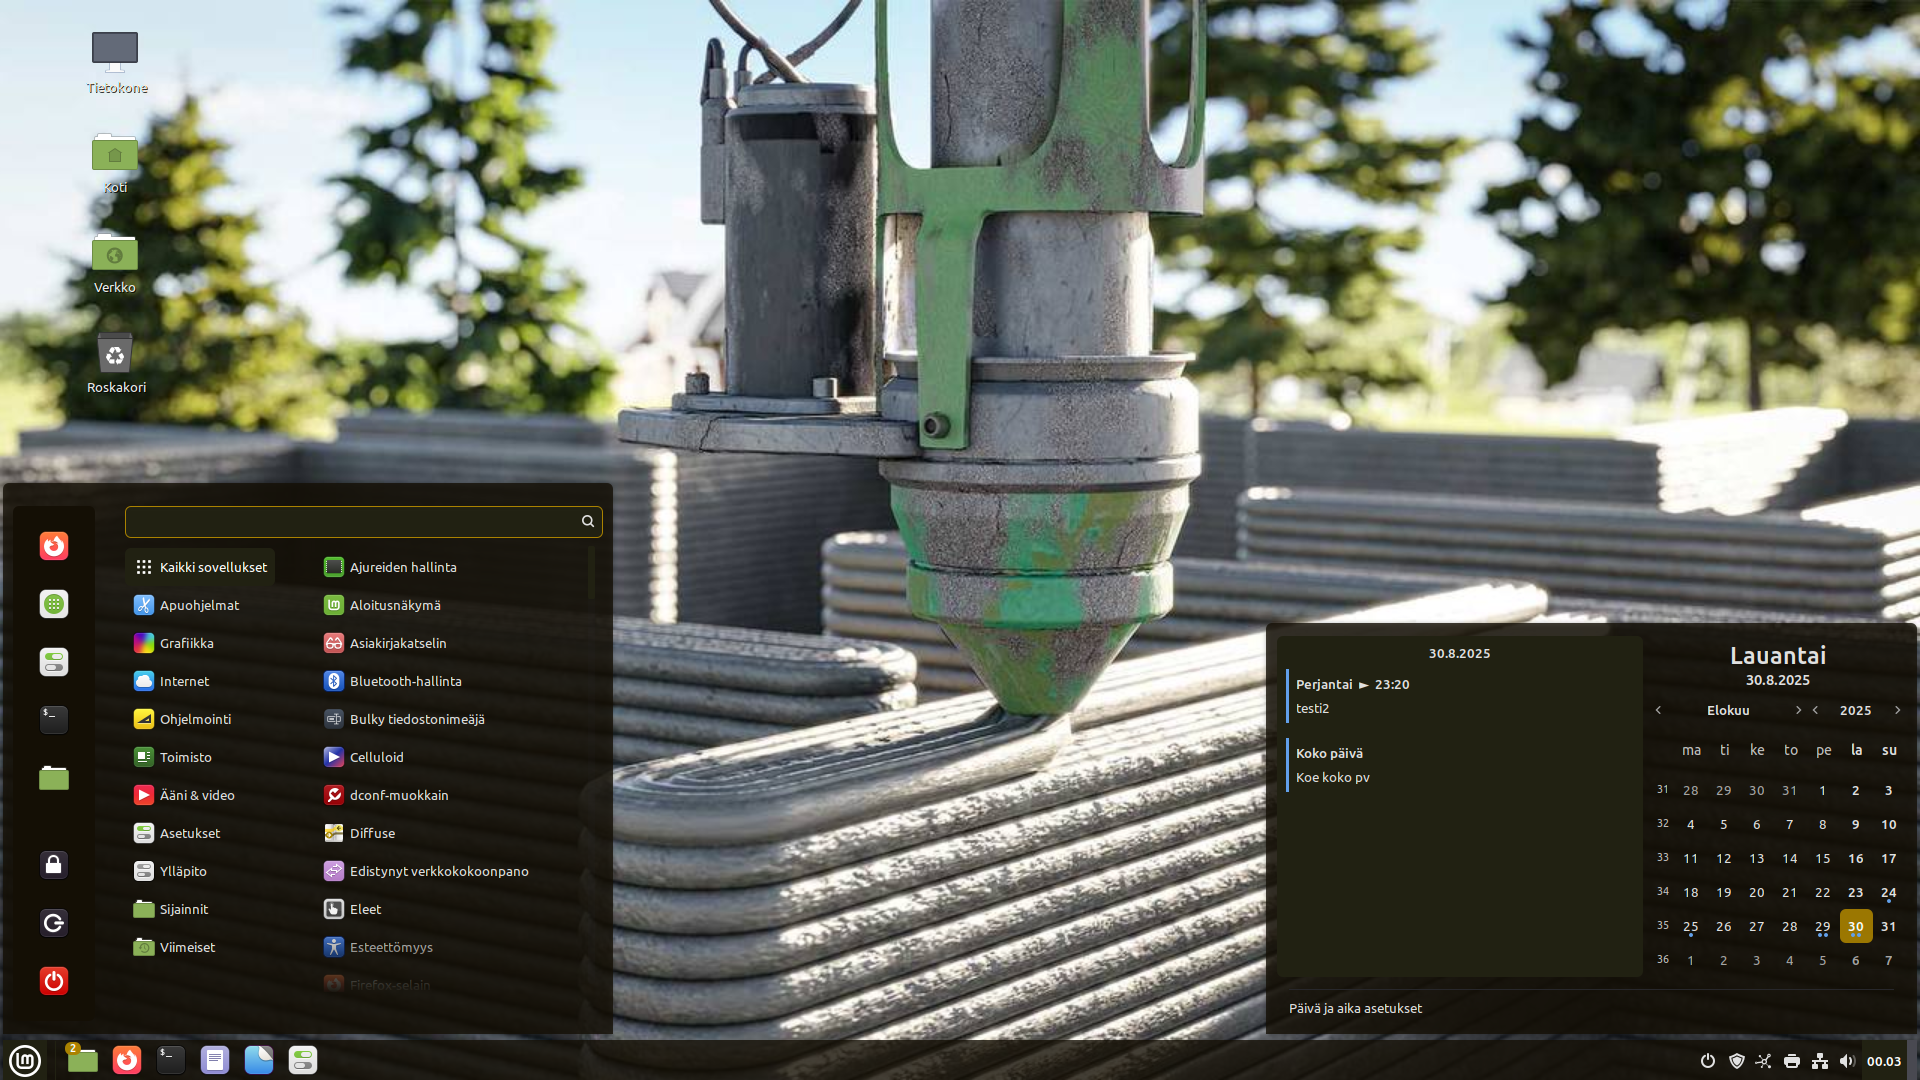
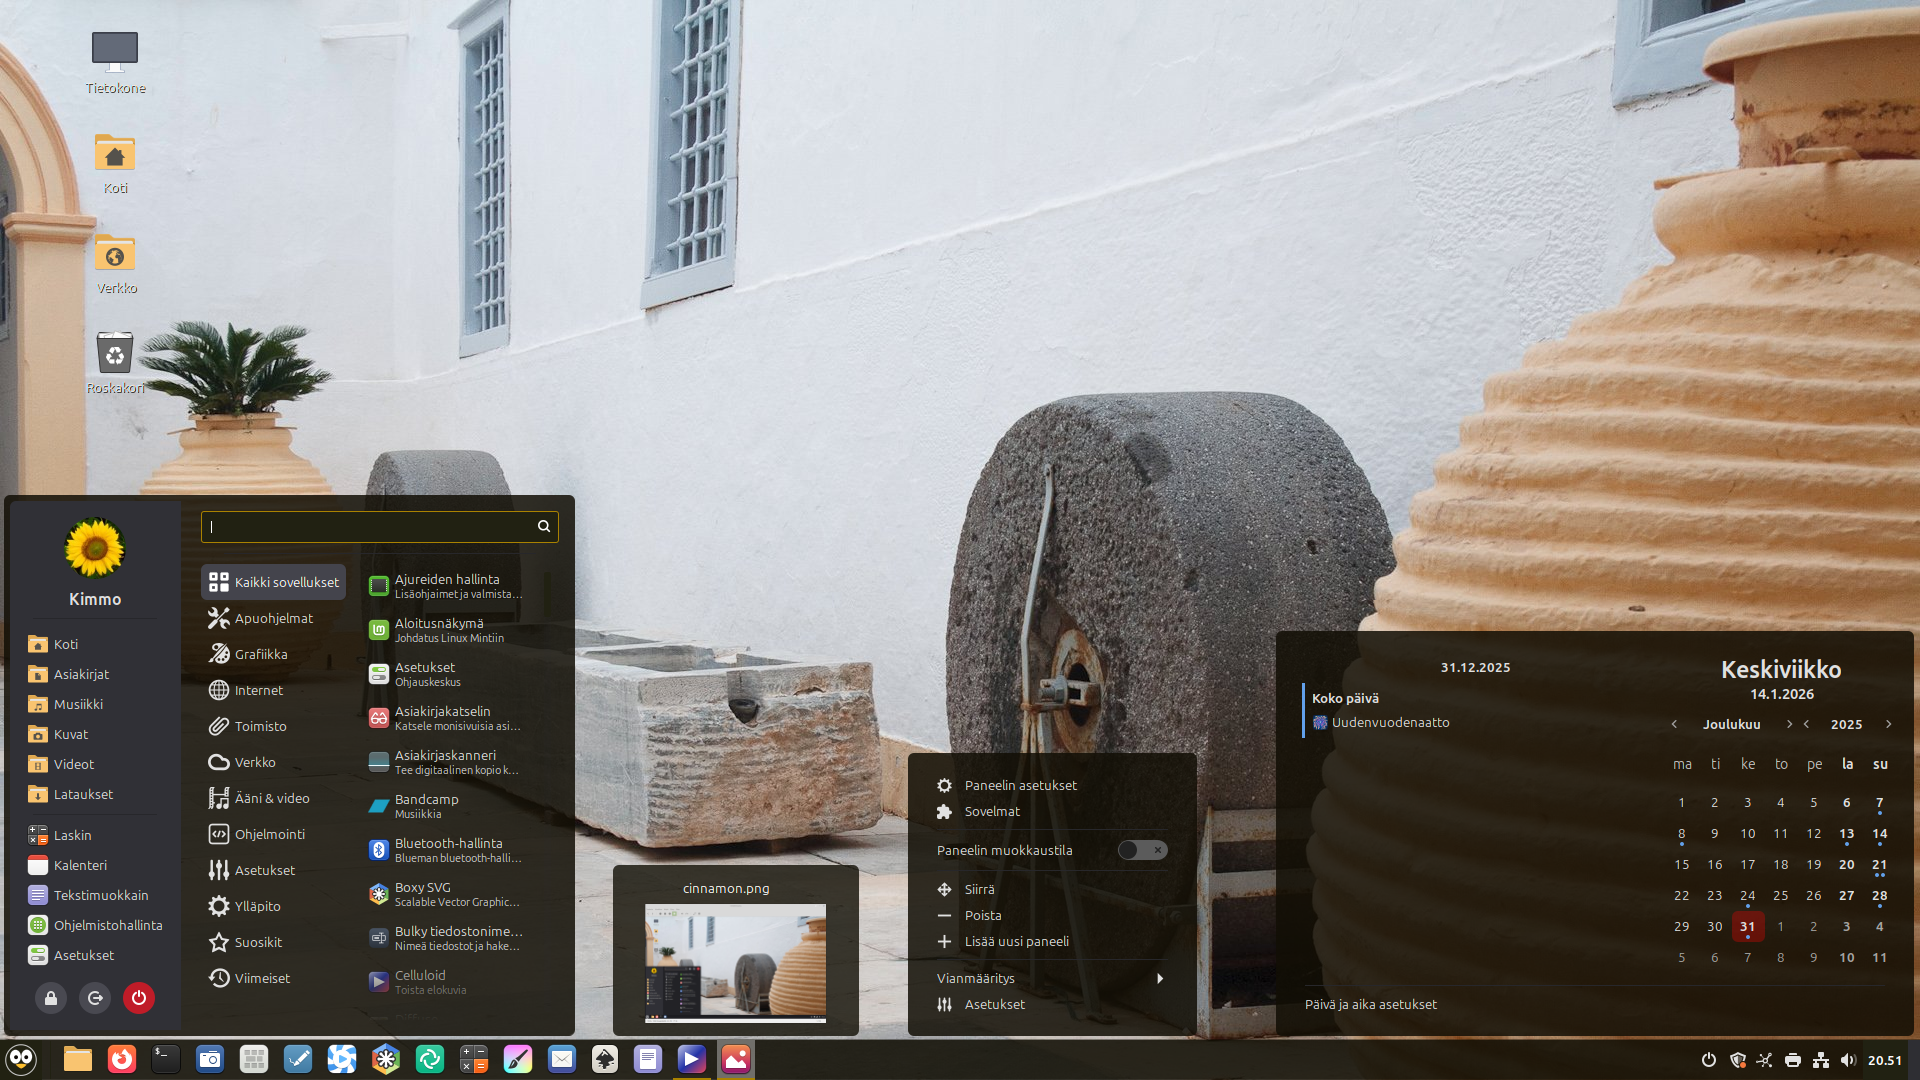
Aune: Version 1.3 (#895)

diff --git a/Aune/files/Aune/cinnamon/cinnamon.css b/Aune/files/Aune/cinnamon/cinnamon.css
@@ -52,7 +52,7 @@ stage {
   border: 1px solid #212112;
   box-shadow: inset 0 2px 4px rgba(48, 48, 54, 0.05); }
   .prompt-dialog-password-entry:focus, .run-dialog-entry:focus, #appmenu-search-entry:focus, #menu-search-entry:focus, .popup-menu #notification StEntry:focus, .prompt-dialog-password-entry:hover, .run-dialog-entry:hover, #appmenu-search-entry:hover, #menu-search-entry:hover, .popup-menu #notification StEntry:hover {
-    color: #e1e1e1;
+    color: #ffffff;
     background-color: #212112;
     border: 1px solid #aa8200;
     box-shadow: inset 0 2px 4px rgba(48, 48, 54, 0.05); }
@@ -229,17 +229,11 @@ StScrollBar {
 
 .menu {
   color: #e1e1e1;
-  background-color: rgba(18, 15, 5, 0.80);
+  background-color: rgba(18, 15, 5, 0.85);
   margin: 4px;
-  box-shadow: 0 0 6px rgba(0, 0, 0, 0.5); }  
-  .menu-top {
-    border-radius: 0 0 6px 6px; }
-  .menu-bottom {
-    border-radius: 6px 6px 0 0; }
-  .menu-left {
-    border-radius: 0 6px 6px 0; }
-  .menu-right {
-    border-radius: 6px 0 0 6px; }
+  padding: 6px;
+box-shadow: none;
+  border-radius: 6px; }  
 
 .popup-sub-menu {
   background-color: #140f05;
@@ -1040,6 +1034,7 @@ StScrollBar {
 .appmenu-search-box {
   spacing: 10px; }
 
+/* Sivupalkin pohjaväri tässä background-color: #303036; Sammutanapin takana #d61f2d; */
 .appmenu-sidebar {
   padding: 15px 0px;
   background-color: #303036;
@@ -1071,10 +1066,15 @@ StScrollBar {
 .appmenu-system-box {
   spacing: 10px; }
 
+/* Sivupalkin suosikit kansioiden värit */
 .appmenu-sidebar-button {
   padding: 4px 7px;
   margin: 0 10px; }
+
+/* Sivupalkin nimet kirkastuu kun hiiren vie päälle. Originaali tausta #44444c; tehty */
   .appmenu-sidebar-button:hover {
+    font-weight: normal;
+    color: #ffffff;
     background-color: #44444c;
     border-color: #303036; }
 
@@ -1094,32 +1094,44 @@ StScrollBar {
     color: white;
     background-color: #d61f2d; }
 
+/* Ohjelmien varsinaiset nimet. Tähän saa värin */
 .appmenu-application-button-label {
   padding: 0; }
 
+/* Ohjelmien kuvaukset Originaali color: #a0a0a0; */
 .appmenu-application-button-description {
-  color: #a0a0a0; }
+  color: #d4d4d4; }
 
 .appmenu-application-button:highlighted {
   font-weight: bold; }
 
+/* Ohjelman nimi kirkastuu kun hiiren vie päälle. Originaali tausta #303036; tehty */
 .appmenu-application-button-selected {
-  background-color: #303036; }
+  font-weight: normal;
+  color: #ffffff;
+  background-color: #44444c; }
   .appmenu-application-button-selected:highlighted {
     font-weight: bold; }
 
+/* Ohjelmaryhmän nimi. Tähän voi määrätä värin */
 .appmenu-category-button-label {
   padding: 0; }
 
 .appmenu-category-button:hover {
   background-color: #44444c; }
 
+/* Ohjelmaryhmän nimen väri kun hiirellä osoittaa. */
 .appmenu-category-button-selected {
-  background-color: #303036; }
+  font-weight: normal;
+  color: #ffffff;
+  background-color: #44444c; }
 
+/* Kun hakee ohjelmaa nimellä - ohjelmaryhmät muuttuu italic tyyliseksi. */
 .appmenu-category-button-greyed {
   color: rgba(225, 225, 225, 0.45);
   font-style: italic; }
+
+/* Kun hakee ohjelmaa nimellä, ohjelmaryhmän kuvakkeet sumentuu, hieno! Voi vaihtaa värin. */
   .appmenu-category-button-greyed StIcon {
     opacity: 0.5; }
 
@@ -1144,6 +1156,7 @@ StScrollBar {
   width: 15em;
   min-width: 5px; }
 
+/* Ikkunalista moodi tekstiväri passiviset ikkunat */
 .window-list-item-box {
   font-weight: bold;
   background-image: none;
@@ -1152,6 +1165,8 @@ StScrollBar {
   padding-right: 8px;
   transition-duration: 100;
   color: rgba(225, 225, 225, 0.8); }
+
+/* Ikkunalista moodi aktiivisen ohjelman tekstiväri */
   .window-list-item-box.top, .window-list-item-box.bottom {
     border-bottom-width: 2px; }
     .window-list-item-box.top StLabel, .window-list-item-box.bottom StLabel {
@@ -1168,13 +1183,16 @@ StScrollBar {
     border-left-width: 2px; }
     .window-list-item-box.left StBin {
       padding-left: 1px; }
+/* Ikkunalista moodi passiivisen ohjelman tekstiväri kun osoittaa sitä hiirellä */
   .window-list-item-box:hover, .window-list-item-box:groupFocus {
-    color: #e1e1e1;
+    color: #ffffff;
     background-color: rgba(225, 225, 225, 0.2); }
+
+/* Ikkunalista moodi tekstiväri paneelissa kun ohjelmassa joka on auki. Viivan väri alla */
   .window-list-item-box:active, .window-list-item-box:checked, .window-list-item-box:focus, .window-list-item-box:running {
-    color: #e1e1e1;
+    color: #ffffff;
     border-color: #aa8200;
-    background-color: rgba(225, 225, 225, 0.2); }
+    background-color: rgba(225, 225, 225, 0.3); }
   .window-list-item-box .progress {
     background-color: rgba(170, 130, 1, 0.8); }
 
@@ -1183,13 +1201,13 @@ StScrollBar {
   background-gradient-start: #F04A50;
   background-gradient-end: #F04A50; }
 
-.window-list-preview {
-  spacing: 6px;
-  color: #e1e1e1;
+/* Ikkunalista moodi pikkuikkuna ohjelmasta paneelissa */
+.window-list-preview {  
+  color: #ffffff;
   border: 1px solid rgba(0, 0, 0, 0);
-  background-color: #140f05;
-  border-radius: 3px;
-  padding: 6px 12px 12px 12px;
+  background-color: rgba(18, 15, 5, 0.80);
+  border-radius: 6px;
+  padding: 6px;
   font-size: 1em; }
 
 .grouped-window-list-item-label {
@@ -1220,9 +1238,11 @@ StScrollBar {
     border-left-width: 2px; }
     .grouped-window-list-item-box.left StBin {
       padding-left: 1px; }
+
+/* Paneelin kuvakkeen takana oleva väri myös osoittaessa hiirellä */
   .grouped-window-list-item-box:hover, .grouped-window-list-item-box:focus {
-    color: #e1e1e1;
-    background-color: #43444c; }
+    color: #ffffff;
+    background-color: rgba(225, 225, 225, 0.4) }
   .grouped-window-list-item-box:active, .grouped-window-list-item-box:checked {
     color: #e1e1e1;
     border-color: #aa8200; }
@@ -1234,19 +1254,25 @@ StScrollBar {
   background-gradient-start: #F04A50;
   background-gradient-end: #F04A50; }
 
+/* Paneelin ohjelman pikkuikkunen nimen tai otsikon väri */
 .grouped-window-list-thumbnail-label {
+  color: #ffffff;
   padding-left: 4px; }
 
+/* Paneelin ohjelmakuvakkeen kuvekkeessa oleva numero. Montako samaa käynnissä */
 .grouped-window-list-number-label {
   font-size: 12px;
   color: #ffffff; }
 
+/* Paneelin ohjelmakuvakkeen kuvekkeessa oleva numeron pohjaväri */
 .grouped-window-list-badge {
   border-radius: 99px;
   background-color: #aa8200;
   margin: 0; }
 
+/* Paneelin ilmoitukset kuvakkeen numeron väri */
 .grouped-window-list-notifications-badge-label {
+  color: #ffffff;
   font-size: 12px; }
 
 .grouped-window-list-button-label {
@@ -1255,17 +1281,19 @@ StScrollBar {
 .grouped-window-list-thumbnail-alert {
   background: rgba(255, 52, 52, 0.3); }
 
+/* Paneelin ohjelmien kuvakkeiden pikkuikkuna */
 .grouped-window-list-thumbnail-menu {
-  color: #e1e1e1;
+  margin: 4px;
+  color: #ffffff;
   border: 1px solid rgba(0, 0, 0, 0);
-  background-color: #140f05;
-  border-radius: 3px;
-  padding: 0px; }
+  background-color: rgba(18, 15, 5, 0.80);
+  border-radius: 6px;
+  padding: 6px; }
   .grouped-window-list-thumbnail-menu > StBoxLayout {
     padding: 4px; }
   .grouped-window-list-thumbnail-menu .item-box {
     padding: 10px;
-    border-radius: 2px;
+    border-radius: 6px;
     spacing: 4px; }
     .grouped-window-list-thumbnail-menu .item-box:outlined {
       padding: 8px;
@@ -1275,7 +1303,7 @@ StScrollBar {
   .grouped-window-list-thumbnail-menu .thumbnail {
     width: 256px; }
   .grouped-window-list-thumbnail-menu .separator {
-    width: 1px;
+    width: 2px;
     background: rgba(255, 255, 255, 0.2); }
 
 .sound-button {
@@ -1334,8 +1362,10 @@ StScrollBar {
     border: 1px solid transparent; }
     .sound-player > StBoxLayout:first-child StButton:small StIcon {
       icon-size: 12px; }
+
+/* Celluloid soittaa. Pieni nuoli ja x väri ja taustaväri sekä väri kun painetaan */
     .sound-player > StBoxLayout:first-child StButton:small:hover {
-      color: #e1e1e1;
+      color: #ffffff;
       background-color: #3c3c44;
       border: 1px solid #212112;
       box-shadow: inset 0 2px 4px rgba(60, 60, 68, 0.05); }
@@ -1348,6 +1378,7 @@ StScrollBar {
 .sound-player-generic-coverart {
   background: rgba(0, 0, 0, 0.2); }
 
+/* Ikkuna jossa on play stop pause */
 .sound-player-overlay {
   width: 290px;
   padding: 15px;
@@ -1365,7 +1396,7 @@ StScrollBar {
     .sound-player-overlay StButton StIcon {
       icon-size: 16px; }
     .sound-player-overlay StButton:hover {
-      color: #e1e1e1;
+      color: #ffffff;
       background-color: #3c3c44;
       border: 1px solid #212112;
       box-shadow: inset 0 2px 4px rgba(60, 60, 68, 0.05); }
@@ -1690,7 +1721,7 @@ StScrollBar {
     border: 1px solid #797987; }
   .dialog .dialog-button:hover {
     border: 1px solid #212112;
-    color: #e1e1e1;
+    color: #ffffff;
     background-color: #494951; }
   .dialog .dialog-button:active {
     border: 1px solid #212112;
@@ -1716,7 +1747,7 @@ StScrollBar {
     border: 1px solid #f4ede6; }
   .dialog .dialog-button:hover:default {
     border: 1px solid #aa8200;
-    color: #e1e1e1;
+    color: #ffffff;
     background-color: #aa8200; }
   .dialog .dialog-button:active:default {
     border: 1px solid #aa8200;
@@ -1743,7 +1774,7 @@ StScrollBar {
     border: 1px solid #ee878f; }
   .dialog .dialog-button:hover:destructive-action {
     border: 1px solid #c01c28;
-    color: #e1e1e1;
+    color: #ffffff;
     background-color: #e12e3b; }
   .dialog .dialog-button:active:destructive-action {
     border: 1px solid #c01c28;

diff --git a/Aune/README.md b/Aune/README.md
@@ -1,12 +1,12 @@
 ## Aune
 
-Version: 11.1.2026
+Version: 1.3
 
 Theme supports cinnamon.
 
-Aune is a transparent theme. The color has been changed from black to slightly brown. A 3px gap has been added between the panel and the menu. The menu is also off the edge. Works beautifully on the left edge and at the top. The panel on the right and bottom is attached to the edge, but I'll think about that later. 
+Aune is a transparent theme. The color has been changed from black to a slightly brown. A 3px gap has been added between the panel and the menu. Rounded corners. The text brightens slightly when hovered over.
 
-The transparency may be too high on some monitors. I have tested colors on three different monitor manufacturers (HP, Samsung, Aoc). It is a little different on all of them. The goal has been to get the color and transparency so that it works with different background images.
+The goal is to make transparency work well with different background images. Currently, a light background image works better.
 
 The theme is named after my grandmother.
 
@@ -15,6 +15,8 @@ The theme is named after my grandmother.
 Most easily installed via Cinnamon's Themes module in Cinnamon settings.
 
 ## Changelog
+14.1.2026
+Rounded corners for window.list and grouped-window. Menu text brightens when hovering over it. Mostly text-related improvements. New Aune version numbering.
 
 11.1.2026
 Aune now also supports Cinnamon 6.6.4 (Linux Mint 22.3). The new menu works, but I will make some minor color changes to it in the future.
